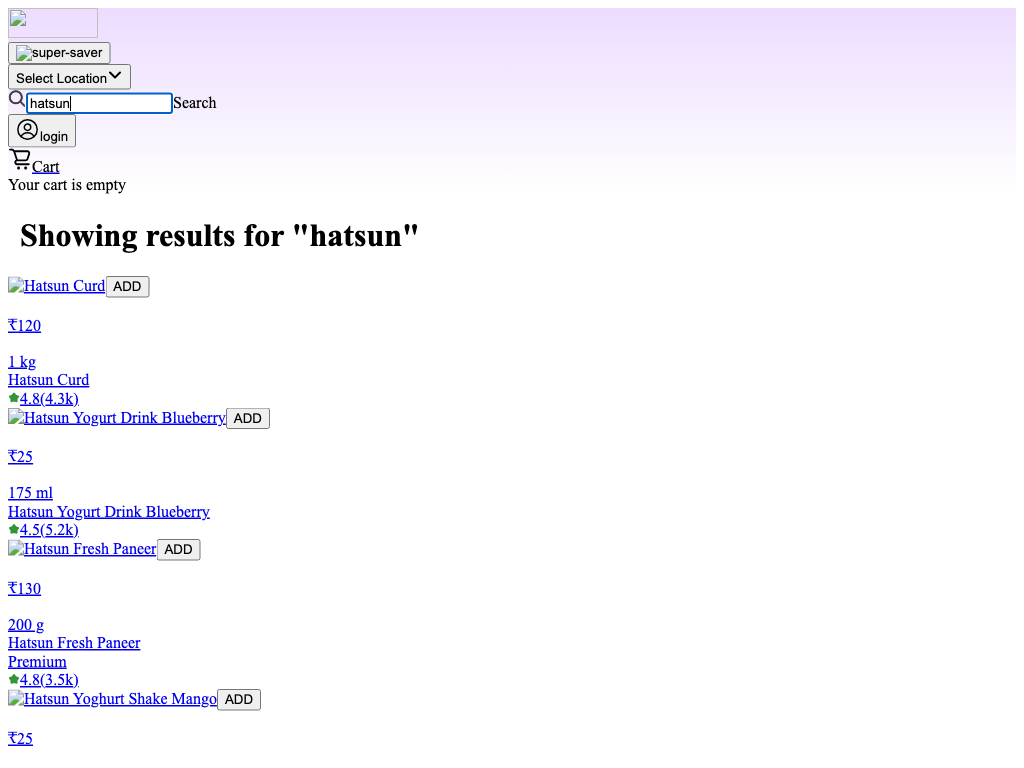
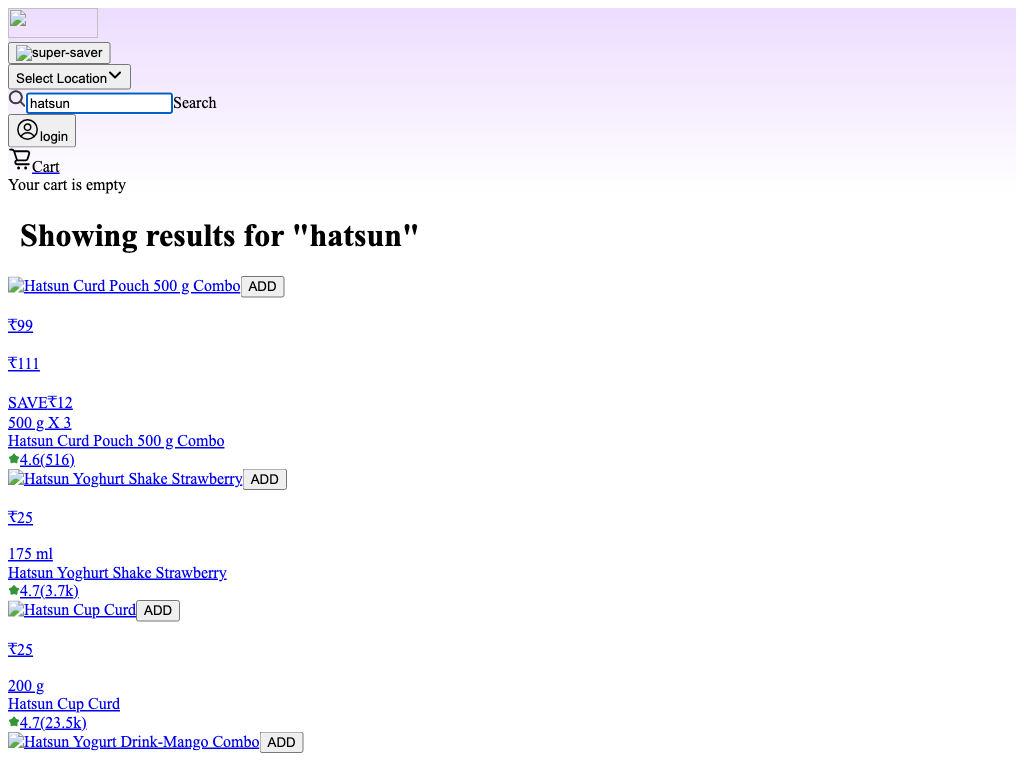
zepto search kinda of works now

Changed region(s): [[0.0, 0.4688, 0.2812, 1.0], [0.0938, 0.3438, 0.2812, 0.4062], [0.0, 0.4062, 0.0312, 0.4375]]

diff --git a/backend/src/scrapers/real-zepto.js b/backend/src/scrapers/real-zepto.js
@@ -91,6 +91,29 @@ class RealZeptoScraper {
       
       console.log(`🟣 Zepto: Container counts:`, containerCounts);
       
+      // First check what we have on page before extraction
+      const debugInfo = await page.evaluate(() => {
+        const selectorCounts = {
+          '[data-testid="product-card"]': document.querySelectorAll('[data-testid="product-card"]').length,
+          '.ProductCard': document.querySelectorAll('.ProductCard').length,
+          '[class*="product"]': document.querySelectorAll('[class*="product"]').length,
+          'elements_with_rupee': document.querySelectorAll('*').length
+        };
+        
+        const priceElements = Array.from(document.querySelectorAll('*')).filter(el => {
+          const text = el.textContent || '';
+          return text.includes('₹') && text.length > 5 && text.length < 200;
+        });
+        
+        return {
+          selectorCounts,
+          priceElementsCount: priceElements.length,
+          bodyLength: document.body.textContent?.length || 0
+        };
+      });
+      
+      console.log(`🟣 Zepto: Page analysis:`, debugInfo);
+      
       // Extract products using multiple selector strategies
       const products = await page.evaluate((maxResults) => {
         const results = [];
@@ -119,10 +142,10 @@ class RealZeptoScraper {
         
         for (const strategy of selectorStrategies) {
           const containers = document.querySelectorAll(strategy.container);
-          console.log(`🟣 Zepto: Trying strategy "${strategy.container}" with ${containers.length} containers`);
+          // This log won't show in Node console, but we'll check outside
           
           if (containers.length > 0) {
-            for (let i = 0; i < Math.min(containers.length, maxResults); i++) {
+            for (let i = 0; i < Math.min(containers.length, 25); i++) { // Extract more from structured selectors
               const container = containers[i];
               
               try {
@@ -167,91 +190,125 @@ class RealZeptoScraper {
           }
         }
         
-        // If no products found with structured selectors, try aggressive extraction
-        if (results.length === 0) {
-          console.log('🟣 Zepto: Trying aggressive product extraction');
+        // Always try aggressive extraction to get more products
+        console.log('🟣 Zepto: Starting aggressive product extraction');
+        
+        // Look for any elements that contain price symbols
+        const priceElements = Array.from(document.querySelectorAll('*')).filter(el => {
+          const text = el.textContent || '';
+          return text.includes('₹') && text.length > 5 && text.length < 200;
+        });
+        
+        console.log(`🟣 Zepto: Found ${priceElements.length} elements with ₹ symbol`);
           
-          // Look for any elements that contain price symbols
-          const priceElements = Array.from(document.querySelectorAll('*')).filter(el => {
-            const text = el.textContent || '';
-            return text.includes('₹') && text.length > 5 && text.length < 200;
-          });
-          
-          console.log(`🟣 Zepto: Found ${priceElements.length} elements with ₹ symbol`);
-          
-          for (const element of priceElements.slice(0, maxResults * 3)) {
-            try {
-              const text = element.textContent.trim();
-              const priceMatch = text.match(/₹\s*(\d+(?:\.\d+)?)/);
+        for (const element of priceElements.slice(0, 200)) { // Increased to capture more products
+          try {
+            const text = element.textContent.trim();
+            const priceMatch = text.match(/₹\s*(\d+(?:\.\d+)?)/);
+            
+            if (priceMatch) {
+              const price = parseFloat(priceMatch[1]);
               
-              if (priceMatch) {
-                const price = parseFloat(priceMatch[1]);
+              if (price > 5 && price < 2000) { // Broader price range
+                // Try to find product name by looking at parent elements
+                let productName = null;
+                let currentEl = element;
                 
-                if (price > 10 && price < 1000) {
-                  // Try to find product name by looking at parent elements
-                  let productName = null;
-                  let currentEl = element;
+                // Traverse up to find a good product name with improved matching
+                for (let i = 0; i < 6 && currentEl; i++) {
+                  const parent = currentEl.parentElement;
+                  if (!parent) break;
                   
-                  // Traverse up to find a good product name
-                  for (let i = 0; i < 5 && currentEl; i++) {
-                    const siblings = Array.from(currentEl.parentElement?.children || []);
-                    
-                    for (const sibling of siblings) {
-                      const siblingText = sibling.textContent?.trim();
-                      if (siblingText && 
-                          !siblingText.includes('₹') && 
-                          siblingText.length > 5 && 
-                          siblingText.length < 80 &&
-                          !siblingText.match(/^\d+$/) && // Not just numbers
-                          !siblingText.toLowerCase().includes('add') &&
-                          !siblingText.toLowerCase().includes('buy')) {
+                  const siblings = Array.from(parent.children);
+                  
+                  for (const sibling of siblings) {
+                    const siblingText = sibling.textContent?.trim();
+                    if (siblingText && 
+                        !siblingText.includes('₹') && 
+                        siblingText.length > 4 && 
+                        siblingText.length < 100 &&
+                        !siblingText.match(/^\d+$/) && // Not just numbers
+                        !siblingText.toLowerCase().includes('add') &&
+                        !siblingText.toLowerCase().includes('buy') &&
+                        !siblingText.toLowerCase().includes('cart') &&
+                        !siblingText.toLowerCase().includes('delivery') &&
+                        !siblingText.toLowerCase().includes('free')) {
+                      
+                      // Prioritize text that contains brand names or key terms
+                      const lowerText = siblingText.toLowerCase();
+                      if (lowerText.includes('hatsun') || lowerText.includes('heritage') || 
+                          lowerText.includes('godrej') || lowerText.includes('amul') ||
+                          lowerText.includes('curd') || lowerText.includes('milk') || 
+                          lowerText.includes('dairy') || lowerText.includes('organic') ||
+                          lowerText.includes('fresh') || lowerText.includes('farm')) {
                         productName = siblingText;
                         break;
+                      } else if (!productName && siblingText.length > 8) {
+                        // Keep as fallback if no better name found
+                        productName = siblingText;
                       }
                     }
-                    
-                    if (productName) break;
-                    currentEl = currentEl.parentElement;
                   }
                   
-                  // If still no name, try extracting from the price element's text
-                  if (!productName) {
-                    const beforePrice = text.split('₹')[0].trim();
-                    if (beforePrice.length > 5 && beforePrice.length < 60) {
-                      productName = beforePrice;
-                    }
-                  }
-                  
-                  if (productName && productName.length > 3) {
-                    console.log(`🟣 Zepto: Found product: "${productName}" at ₹${price}`);
-                    
-                    results.push({
-                      name: productName,
-                      price: price,
-                      originalPrice: null,
-                      url: window.location.href,
-                      image: null,
-                      inStock: true,
-                      deliveryFee: 'Free',
-                      deliveryTime: '10-15 mins',
-                      category: 'General'
-                    });
-                    
-                    if (results.length >= maxResults) break;
+                  if (productName && (productName.toLowerCase().includes('hatsun') || 
+                                     productName.toLowerCase().includes('heritage'))) break;
+                  currentEl = parent;
+                }
+                
+                // If still no name, try extracting from the price element's text
+                if (!productName) {
+                  const beforePrice = text.split('₹')[0].trim();
+                  if (beforePrice.length > 5 && beforePrice.length < 60) {
+                    productName = beforePrice;
                   }
                 }
+                
+                // Filter out only obvious generic/unwanted text
+                const isValidProduct = productName && 
+                  productName.length > 3 && 
+                  productName.length < 100 &&
+                  !productName.toLowerCase().includes('showing results') &&
+                  !productName.toLowerCase().includes('search results') &&
+                  !results.some(r => r.name === productName); // No duplicates
+                
+                if (isValidProduct) {
+                  console.log(`🟣 Zepto: Found product: "${productName}" at ₹${price}`);
+                  
+                  results.push({
+                    name: productName,
+                    price: price,
+                    originalPrice: null,
+                    url: window.location.href,
+                    image: null,
+                    inStock: true,
+                    deliveryFee: 'Free',
+                    deliveryTime: '10-15 mins',
+                    category: 'General'
+                  });
+                  
+                  if (results.length >= 25) break; // Extract more products before relevancy filtering
+                }
               }
-            } catch (error) {
-              console.log('🟣 Zepto: Error in aggressive extraction:', error);
             }
+          } catch (error) {
+            console.log('🟣 Zepto: Error in aggressive extraction:', error);
           }
         }
         
         return results;
       }, maxResults);
       
-      console.log(`🟣 Zepto: Extracted ${products.length} real products`);
-      return products;
+      console.log(`🟣 Zepto: Extracted ${products.length} products before relevancy filtering`);
+      
+      // Apply relevancy algorithm - prioritize products that match search terms
+      const relevantProducts = this.filterByRelevancy(products, query);
+      
+      // Log each relevant product found
+      relevantProducts.forEach((product, index) => {
+        console.log(`🟣 Zepto: Product ${index + 1}: "${product.name}" - ₹${product.price} (Relevancy: ${product.relevancyScore})`);
+      });
+      
+      return relevantProducts;
       
     } catch (error) {
       console.error(`🟣 Zepto scraping error: ${error.message}`);
@@ -261,6 +318,75 @@ class RealZeptoScraper {
         await browser.close();
       }
     }
+  }
+
+  filterByRelevancy(products, query) {
+    const queryTerms = query.toLowerCase().split(' ').filter(term => term.length > 2);
+    console.log(`🟣 Zepto: Query terms for relevancy: [${queryTerms.join(', ')}]`);
+    
+    // Identify the primary term (usually brand/most important)
+    const primaryTerm = queryTerms[0]; // First term is usually the brand
+    const secondaryTerms = queryTerms.slice(1); // Rest are category/descriptive terms
+    
+    console.log(`🟣 Zepto: Primary term (must match): "${primaryTerm}"`);
+    console.log(`🟣 Zepto: Secondary terms: [${secondaryTerms.join(', ')}]`);
+    
+    // Calculate relevancy score for each product
+    const scoredProducts = products.map(product => {
+      const productName = product.name.toLowerCase();
+      let score = 0;
+      let matchesPrimary = false;
+      
+      // Check primary term match (REQUIRED)
+      if (productName.includes(primaryTerm)) {
+        score += 10; // High score for primary term
+        matchesPrimary = true;
+        console.log(`🟣 Zepto: "${product.name}" matches primary "${primaryTerm}" (+10 points)`);
+      }
+      
+      // Only continue scoring if primary term matches
+      if (!matchesPrimary) {
+        console.log(`🟣 Zepto: "${product.name}" REJECTED - doesn't match primary term "${primaryTerm}"`);
+        return {
+          ...product,
+          relevancyScore: 0
+        };
+      }
+      
+      // Secondary term matching (bonus points)
+      secondaryTerms.forEach(term => {
+        if (productName.includes(term)) {
+          score += 3;
+          console.log(`🟣 Zepto: "${product.name}" matches secondary "${term}" (+3 points)`);
+        }
+      });
+      
+      // Exact phrase matching (bonus)
+      if (productName.includes(query.toLowerCase())) {
+        score += 5;
+        console.log(`🟣 Zepto: "${product.name}" matches full phrase (+5 points)`);
+      }
+      
+      return {
+        ...product,
+        relevancyScore: score
+      };
+    });
+    
+    // Filter products that match primary term and sort by score
+    const relevantProducts = scoredProducts
+      .filter(product => product.relevancyScore > 0)
+      .sort((a, b) => b.relevancyScore - a.relevancyScore)
+      .slice(0, 5);
+    
+    console.log(`🟣 Zepto: Filtered to ${relevantProducts.length} relevant products from ${products.length} total`);
+    
+    // If no products match primary term, return empty array
+    if (relevantProducts.length === 0) {
+      console.log(`🟣 Zepto: No products match primary term "${primaryTerm}" - returning empty results`);
+    }
+    
+    return relevantProducts;
   }
 }
 

diff --git a/backend/src/routes/products.js b/backend/src/routes/products.js
@@ -27,9 +27,14 @@ router.get('/search', async (req, res) => {
     const productMap = new Map(); // To group products by name
     
     for (const platformResult of scrapingResults) {
-      console.log(`📊 Platform ${platformResult.platform}: ${platformResult.success ? 'SUCCESS' : 'FAILED'} - ${platformResult.success ? platformResult.products.length : '0'} products`);
+      const status = platformResult.success ? '✅ SUCCESS' : '❌ FAILED';
+      const count = platformResult.success ? platformResult.products.length : 0;
+      console.log(`📊 Platform ${platformResult.platform}: ${status} - ${count} products found`);
       
       if (platformResult.success && platformResult.products.length > 0) {
+        platformResult.products.forEach((product, index) => {
+          console.log(`   📦 ${platformResult.platform}: "${product.name}" - ₹${product.price}`);
+        });
         for (const scrapedProduct of platformResult.products) {
           // Create a normalized product key for better matching
           const normalizeProductName = (name) => {

diff --git a/lib/services/api_service.dart b/lib/services/api_service.dart
@@ -14,7 +14,7 @@ class ApiException implements Exception {
 }
 
 class ApiService {
-  static const String baseUrl = 'http://localhost:3001/api';
+  static const String baseUrl = 'http://localhost:3000/api';
   static const Duration timeoutDuration = Duration(seconds: 120); // Increased for scraping
   
   Future<List<Product>> searchProducts(String query) async {
